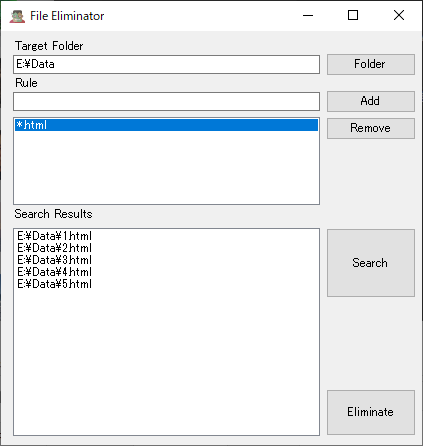
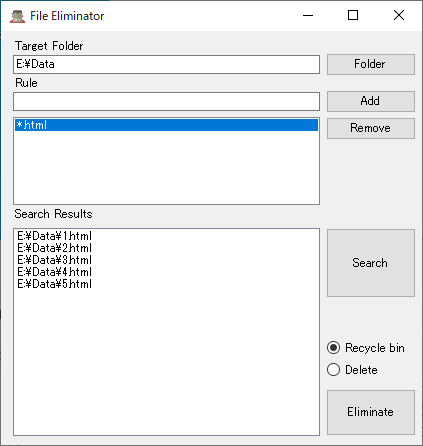
:sparkles: Add function to select to move to recycle bin or delete it.

Changed region(s): [[0.9835, 0.0, 1.0, 0.6996], [0.7683, 0.7578, 0.9527, 0.8453], [0.0, 0.0, 0.0307, 0.0291]]

diff --git a/FileEliminator/Form1.cs b/FileEliminator/Form1.cs
@@ -13,6 +13,7 @@ using System.Threading.Tasks;
 using System.Windows.Forms;
 using IniParser;
 using IniParser.Model;
+using Microsoft.VisualBasic.FileIO;
 
 namespace FileEliminator
 {
@@ -21,6 +22,7 @@ namespace FileEliminator
         public class Parameters
         {
             public string Path = "";
+            public bool isDelete = false;
             public List<string> Rules = new List<string>();
         }
         
@@ -122,8 +124,8 @@ namespace FileEliminator
             List<string> pathList = new List<string>();
 
             foreach (var rule in parameter.Rules) {
-                string[] files = Directory.GetFiles(parameter.Path, rule, SearchOption.AllDirectories);
-                string[] folders = System.IO.Directory.GetDirectories(parameter.Path, rule, SearchOption.AllDirectories);
+                string[] files = Directory.GetFiles(parameter.Path, rule, System.IO.SearchOption.AllDirectories);
+                string[] folders = System.IO.Directory.GetDirectories(parameter.Path, rule, System.IO.SearchOption.AllDirectories);
                 pathList.AddRange(files);
                 pathList.AddRange(folders);
             }
@@ -136,9 +138,12 @@ namespace FileEliminator
 
         private void button5_Click(object sender, EventArgs e)
         {
+            parameter.isDelete = radioButton2.Checked;
+
             foreach (string path in listBox2.Items) {
                 if (File.Exists(path)) {
-                    File.Delete(path);
+                    //File.Delete(path);
+                    DeleteFile(path);
                 }
                 else if (Directory.Exists(path)) {
                     DeleteAll(path);
@@ -155,21 +160,39 @@ namespace FileEliminator
                 return;
             }
 
-            //ディレクトリ以外の全ファイルを削除
-            string[] filePaths = Directory.GetFiles(targetDirectoryPath);
-            foreach (string filePath in filePaths) {
-                File.SetAttributes(filePath, FileAttributes.Normal);
-                File.Delete(filePath);
-            }
+            //ゴミ箱に入れるか、削除するか
+            if (parameter.isDelete) {
+                //ディレクトリ以外の全ファイルを削除
+                string[] filePaths = Directory.GetFiles(targetDirectoryPath);
+                foreach (string filePath in filePaths) {
+                    File.SetAttributes(filePath, FileAttributes.Normal);
+                    //File.Delete(filePath);
+                    DeleteFile(filePath);
+                }
 
-            //ディレクトリの中のディレクトリも再帰的に削除
-            string[] directoryPaths = Directory.GetDirectories(targetDirectoryPath);
-            foreach (string directoryPath in directoryPaths) {
-                DeleteAll(directoryPath);
-            }
+                //ディレクトリの中のディレクトリも再帰的に削除
+                string[] directoryPaths = Directory.GetDirectories(targetDirectoryPath);
+                foreach (string directoryPath in directoryPaths) {
+                    DeleteAll(directoryPath);
+                }
 
-            //中が空になったらディレクトリ自身も削除
-            Directory.Delete(targetDirectoryPath, false);
+                //中が空になったらディレクトリ自身も削除
+                Directory.Delete(targetDirectoryPath, false);
+            }
+            else {
+                //フォルダごとゴミ箱に
+                FileSystem.DeleteDirectory(targetDirectoryPath, UIOption.OnlyErrorDialogs, RecycleOption.SendToRecycleBin);
+            }
+        }
+
+        private void DeleteFile(string path)
+        {
+            if (parameter.isDelete) {
+                File.Delete(path);
+            }
+            else {
+                FileSystem.DeleteFile(path, UIOption.OnlyErrorDialogs, RecycleOption.SendToRecycleBin);
+            }
         }
 
         private void textBox1_TextChanged(object sender, EventArgs e)

diff --git a/FileEliminator/Form1.Designer.cs b/FileEliminator/Form1.Designer.cs
@@ -40,6 +40,8 @@ namespace FileEliminator
             this.button4 = new System.Windows.Forms.Button();
             this.button5 = new System.Windows.Forms.Button();
             this.label3 = new System.Windows.Forms.Label();
+            this.radioButton1 = new System.Windows.Forms.RadioButton();
+            this.radioButton2 = new System.Windows.Forms.RadioButton();
             this.SuspendLayout();
             // 
             // textBox1
@@ -155,11 +157,35 @@ namespace FileEliminator
             this.label3.TabIndex = 11;
             this.label3.Text = "Search Results";
             // 
+            // radioButton1
+            // 
+            this.radioButton1.AutoSize = true;
+            this.radioButton1.Checked = true;
+            this.radioButton1.Location = new System.Drawing.Point(326, 309);
+            this.radioButton1.Name = "radioButton1";
+            this.radioButton1.Size = new System.Drawing.Size(83, 16);
+            this.radioButton1.TabIndex = 12;
+            this.radioButton1.TabStop = true;
+            this.radioButton1.Text = "Recycle bin";
+            this.radioButton1.UseVisualStyleBackColor = true;
+            // 
+            // radioButton2
+            // 
+            this.radioButton2.AutoSize = true;
+            this.radioButton2.Location = new System.Drawing.Point(326, 331);
+            this.radioButton2.Name = "radioButton2";
+            this.radioButton2.Size = new System.Drawing.Size(56, 16);
+            this.radioButton2.TabIndex = 13;
+            this.radioButton2.Text = "Delete";
+            this.radioButton2.UseVisualStyleBackColor = true;
+            // 
             // Form1
             // 
             this.AutoScaleDimensions = new System.Drawing.SizeF(6F, 12F);
             this.AutoScaleMode = System.Windows.Forms.AutoScaleMode.Font;
             this.ClientSize = new System.Drawing.Size(421, 414);
+            this.Controls.Add(this.radioButton2);
+            this.Controls.Add(this.radioButton1);
             this.Controls.Add(this.label3);
             this.Controls.Add(this.button5);
             this.Controls.Add(this.button4);
@@ -197,6 +223,8 @@ namespace FileEliminator
         private System.Windows.Forms.Button button5;
         private System.Windows.Forms.ListBox listBox2;
         private System.Windows.Forms.Label label3;
+        private System.Windows.Forms.RadioButton radioButton1;
+        private System.Windows.Forms.RadioButton radioButton2;
     }
 }
 

diff --git a/README.md b/README.md
@@ -10,7 +10,9 @@ This tool deletes files according to the rules you specify.
 1. Please input rule to "Rule" editbox, and Click "Add" button.
 1. Please select unnecessary rule, and Click "Remove" button to delete rule.
 1. To display all files in "Search Result" listbox, please click "Search" button.
-1. Please confirm "Search Result" listbox, click "Eliminate" button. all files deleted!
+1. Please confirm "Search Result" listbox.
+1. Put a check "Recycle bin" or "Delete", and click "Eliminate" button.
+1. All files deleted or move to recycle bin!
 
 ## Rules
 
